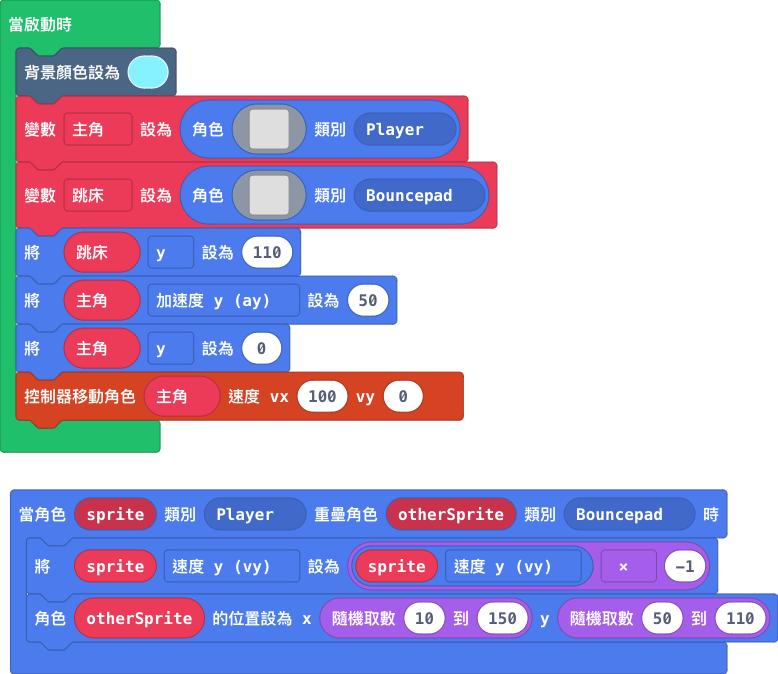
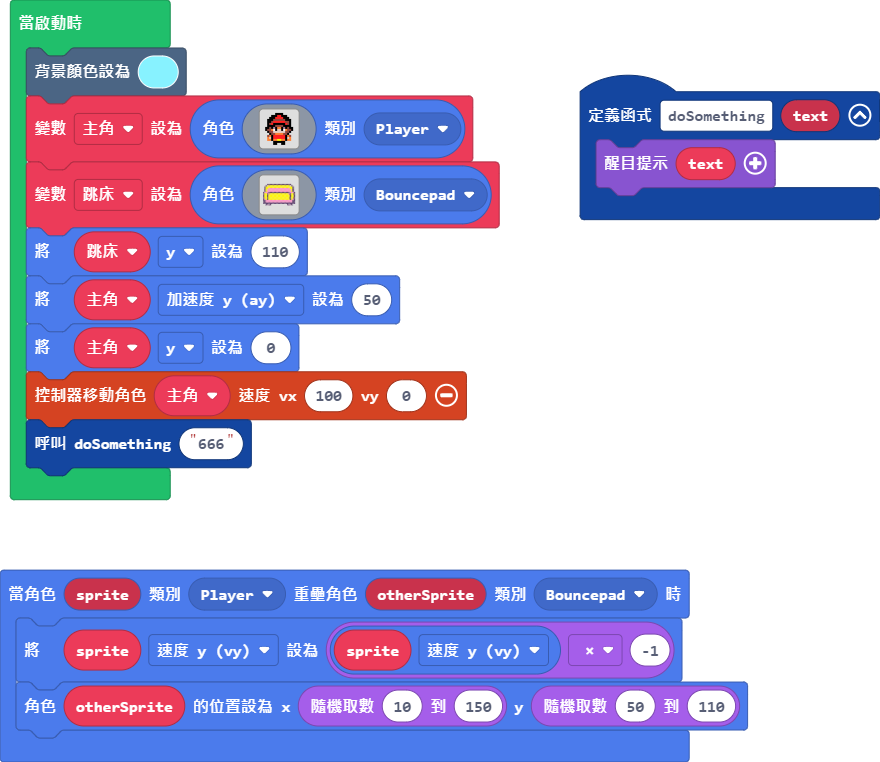
更新 main.blocks, main.ts

diff --git a/main.ts b/main.ts
@@ -5,6 +5,9 @@ sprites.onOverlap(SpriteKind.Player, SpriteKind.Bouncepad, function (sprite, oth
     sprite.vy = sprite.vy * -1
     otherSprite.setPosition(randint(10, 150), randint(50, 110))
 })
+function doSomething (text: string) {
+    game.splash(text)
+}
 scene.setBackgroundColor(9)
 let 主角 = sprites.create(img`
     . . . . . . f f f f . . . . . . 
@@ -46,3 +49,4 @@ let 跳床 = sprites.create(img`
 主角.ay = 50
 主角.y = 0
 controller.moveSprite(主角, 100, 0)
+doSomething("666")
